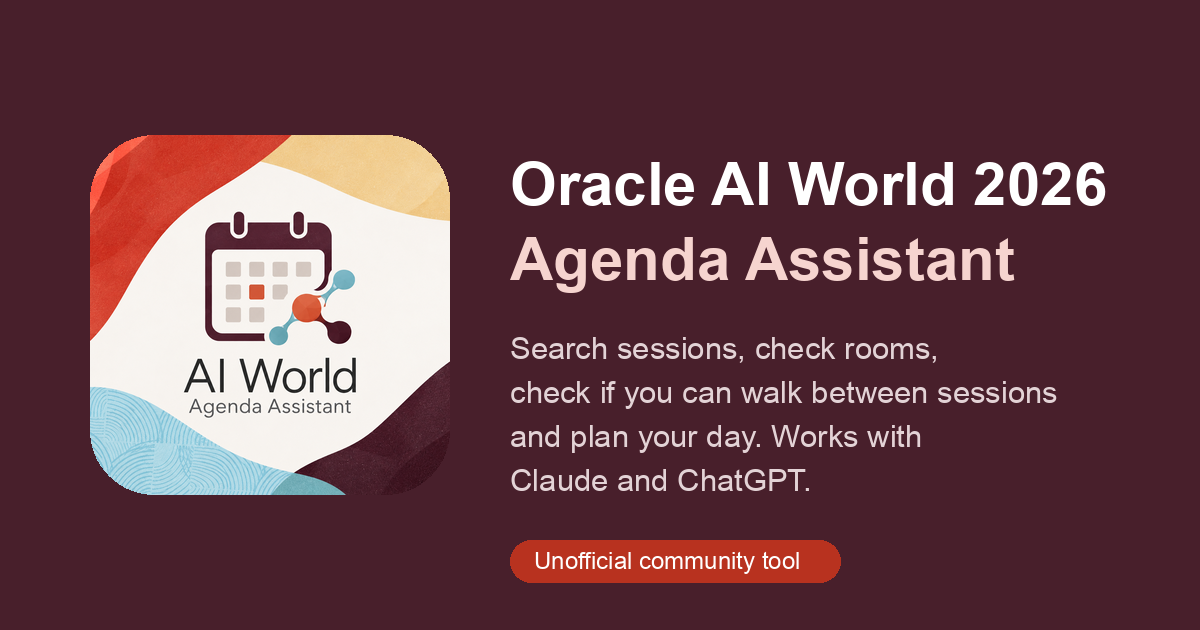
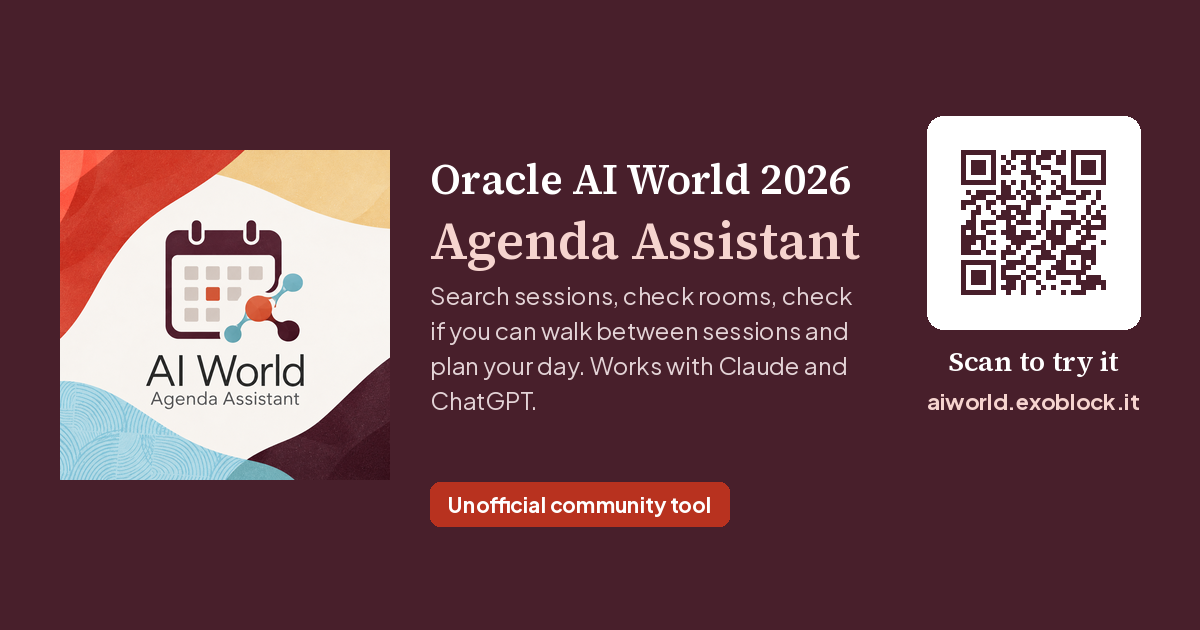
Share image with scannable QR code

Changed region(s): [[0.0308, 0.181, 0.9558, 0.9349]]

diff --git a/scripts/make_card.py b/scripts/make_card.py
@@ -1,6 +1,7 @@
 """Business card for the AI World Agenda Assistant: front, back and a print PDF with bleed.
 
 Usage:  python scripts/make_card.py [output_dir]      (default: dist/card)
+Also writes og-image.png (1200x630); copy it to static/og-image.png to update the share image.
 Needs (dev only, not for the server):  pip install segno fonttools brotli pillow
 Size: 85 x 55 mm at 300 dpi plus 3 mm bleed on every side. Keep text inside the 4 mm safe margin.
 """
@@ -138,11 +139,63 @@ def back(fn: Fonts) -> Image.Image:
     return img
 
 
+def px_font(fn: Fonts, name: str, px: int, weight: int, fit: int | None = None, text: str = "") -> ImageFont.FreeTypeFont:
+    """Font in pixels; with fit, shrink until `text` is at most fit pixels wide."""
+    while True:
+        f = ImageFont.truetype(str(fn.paths[name]), px)
+        f.set_variation_by_axes([weight])
+        if fit is None or f.getlength(text) <= fit or px <= 10:
+            return f
+        px -= 1
+
+
+def og_image(fn: Fonts) -> Image.Image:
+    """1200x630 share image (Slack, LinkedIn): the previous layout plus a scannable QR code on the right."""
+    img = Image.new("RGB", (1200, 630), BURGUNDY)
+    d = ImageDraw.Draw(img)
+    emblem = Image.open(ROOT / "AI World Agenda Assistant Emblem.png").convert("RGB").resize((330, 330), Image.LANCZOS)
+    img.paste(emblem, (60, 150))
+    tx, width = 430, 430
+    y = 150
+    f1 = px_font(fn, "source-serif-4", 46, 600, width, "Oracle AI World 2026")
+    d.text((tx, y), "Oracle AI World 2026", font=f1, fill="#FFFFFF")
+    y += round(f1.size * 1.3)
+    f2 = px_font(fn, "source-serif-4", 60, 600, width, "Agenda Assistant")
+    d.text((tx, y), "Agenda Assistant", font=f2, fill=SOFT)
+    y += round(f2.size * 1.45)
+    f3 = px_font(fn, "plus-jakarta-sans", 24, 400)
+    for line in wrap(d, "Search sessions, check rooms, check if you can walk between sessions and plan your day. "
+                        "Works with Claude and ChatGPT.", f3, width):
+        d.text((tx, y), line, font=f3, fill="#E3D3D6")
+        y += round(f3.size * 1.45)
+    f4 = px_font(fn, "plus-jakarta-sans", 21, 700)
+    label = "Unofficial community tool"
+    tw = d.textlength(label, font=f4)
+    ty = 482
+    d.rounded_rectangle([tx, ty, tx + tw + 36, ty + 44], radius=10, fill=ACCENT)
+    d.text((tx + 18, ty + 22), label, font=f4, fill="#FFFFFF", anchor="lm")
+    code = segno.make(URL, error="q")
+    scale = max(1, 214 // code.symbol_size(scale=1, border=4)[0])
+    buf = io.BytesIO()
+    code.save(buf, kind="png", scale=scale, border=4, dark=BURGUNDY, light="#FFFFFF")
+    qr = Image.open(buf).convert("RGB")
+    qx, qy = 1140 - qr.width - 14, 130
+    d.rounded_rectangle([qx - 14, qy - 14, qx + qr.width + 14, qy + qr.height + 14], radius=16, fill="#FFFFFF")
+    img.paste(qr, (qx, qy))
+    cx = qx + qr.width // 2
+    f5 = px_font(fn, "source-serif-4", 28, 600)
+    d.text((cx, qy + qr.height + 46), "Scan to try it", font=f5, fill="#FFFFFF", anchor="mm")
+    f6 = px_font(fn, "plus-jakarta-sans", 22, 700, qr.width + 28, SHOW_URL)
+    d.text((cx, qy + qr.height + 86), SHOW_URL, font=f6, fill=SOFT, anchor="mm")
+    return img
+
+
 def main(out: Path) -> None:
     out.mkdir(parents=True, exist_ok=True)
     with tempfile.TemporaryDirectory() as t:
         fn = Fonts(fonts(Path(t)))
-        f, b = front(fn), back(fn)
+        f, b, og = front(fn), back(fn), og_image(fn)
+    og.save(out / "og-image.png")
     f.save(out / "card-front.png", dpi=(DPI, DPI))
     b.save(out / "card-back.png", dpi=(DPI, DPI))
     f.save(out / "card-print.pdf", save_all=True, append_images=[b], resolution=DPI)

diff --git a/tests/test_card.py b/tests/test_card.py
@@ -27,3 +27,8 @@ class CardTests(unittest.TestCase):
         self.assertGreaterEqual(img.width, make_card.mm(31) - 40)
         code = segno.make(make_card.URL, error="q")
         self.assertEqual("q", code.error.lower())
+
+    def test_og_image_has_qr(self):
+        with tempfile.TemporaryDirectory() as t:
+            make_card.main(Path(t))
+            self.assertEqual((1200, 630), Image.open(Path(t) / "og-image.png").size)

diff --git a/README.md b/README.md
@@ -260,4 +260,6 @@ pip install -r requirements-dev.txt
 python scripts/make_card.py          # writes dist/card/: card-front.png, card-back.png, card-print.pdf, qr-aiworld.svg/png
 ```
 
+It also writes `og-image.png` (the 1200x630 share image with the QR code); copy it to `static/og-image.png` to update the link preview.
+
 The QR is burgundy on white with error correction Q and a 4-module quiet zone. Print it at least 25 mm wide.
